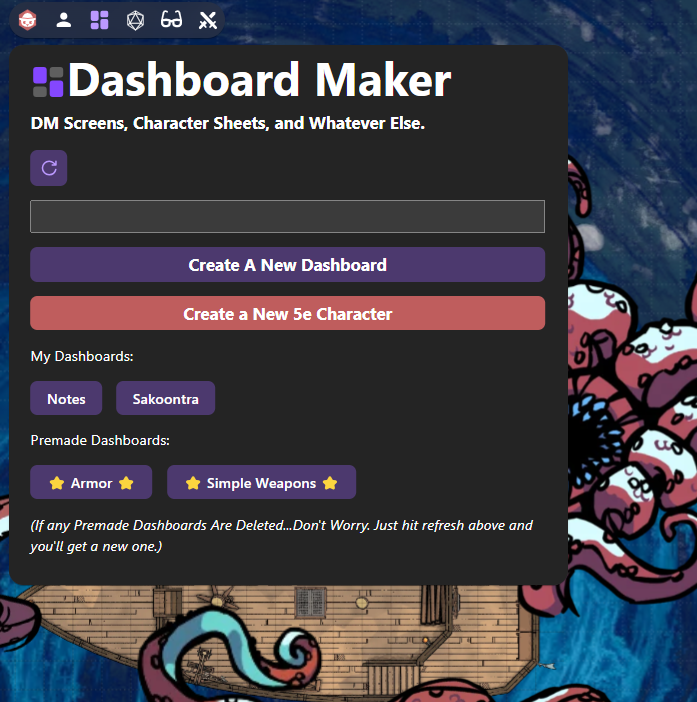
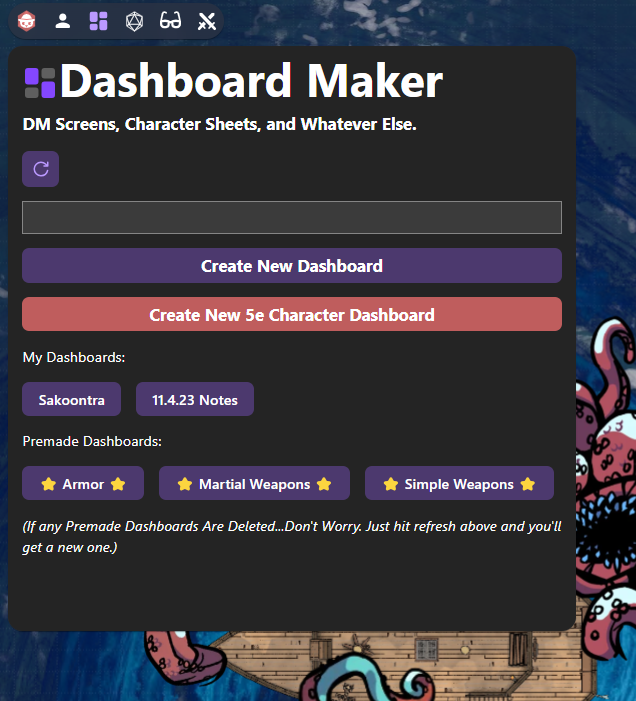
update readme and store doc

diff --git a/src/components/PopOver.tsx b/src/components/PopOver.tsx
@@ -176,14 +176,14 @@ export default function PopOver() {
               onClick={() => createADashboard("default")}
               title="Create a new empty dashboard."
             >
-              <h3>Create A New Dashboard</h3>
+              <h3>Create New Dashboard</h3>
             </button>
             <button
               onClick={() => createADashboard("5eChar")}
               id="fifth-edition-char"
               title="Create a new dashboard using a 5e Character Template."
             >
-              <h3>Create A New 5e Character</h3>
+              <h3>Create New 5e Character Dashboard</h3>
             </button>
           </div>
           <div>

diff --git a/src/index.css b/src/index.css
@@ -7,7 +7,7 @@
 #no-owlbear main {
   align-self: center;
   width: 100%;
-  max-width: 621px;
+  max-width: 631px;
   height: 650px;
 }
 

diff --git a/README.md b/README.md
@@ -1,6 +1,10 @@
 # Dashboard Maker
 
-An Owlbear Rodeo extension for making DM Screens, Character Sheets, and Whatever Else.
+**An Owlbear Rodeo extension for keeping game content you need on hand.**
+
+Whether it's useful notes & reminders, initiative trackers, character sheets, or something else, Dashboard Maker is a place to put it.
+
+The more you put in Dashboard Maker, the less you have to leave Owlbear Rodeo. Why is this good? Because context switching during a game sucks.
 
 Check it out as a standalone app here: https://owlbear-dashboard-maker.vercel.app/
 
@@ -10,20 +14,35 @@ _(But really, you should be using this in [Owlbear Rodeo](https://www.owlbear.ro
 
 ## Features
 
+**Create Dashboards!**
+
 ### Blank Dashboards
 
-![Dashboard Maker](./docs/DashboardMaker2.png)
+![Blank Dashboards](./docs/DashboardMaker2.png)
 
-Click **Create A New Dashboard** to create a new empty dashboard space. Fill it with useful notes, reminders, and any other useful content you want on-hand. Next time you need to recall a story beat or a rules detail, put it in Dashboard Maker so that you never have to change contexts by leaving Owlbear.
+Click **Create A New Dashboard** on the home screen to create a new empty dashboard space.
 
-### 5e Character Template
+---
 
-![Dashboard Maker](./docs/DashboardMaker3.png)
+### 5e Character Template Dashboards
 
-Click **Create A New 5e Character** to create a new dashboard space, using a 5e Character Template.
+![5e Character Template Dashboards](./docs/DashboardMaker3.png)
+
+Click **Create A New 5e Character** on the home page to create a new dashboard space using a 5e Character Template.
 
 ### Premades
+
+![Dashboard "Premades"](./docs/DashboardMaker4.png)
+
 
 Dashboard Maker comes with a couple of "Premades". These are dashboards that are already there, with some useful DM Screen info particular to D&D 5th Edition.
 
 More "Premades" to come.
+
+## Additional Features
+- You can delete dashboards as needed
+- You can clone/duplicate any dashboard as needed
+- You can lock/unlock the state of a dashboard, affecting the editable boxes within it.
+
+
+_Have fun!_

diff --git a/docs/store.md b/docs/store.md
@@ -1,0 +1,61 @@
+---
+title: Dashboard Maker
+description: An extension for keeping game content you need on hand.
+author: Robert Tate
+image: 
+icon: https://owlbear-dashboard-maker.vercel.app/icon.svg
+tags:
+  - tool
+  - other
+manifest: https://owlbear-dashboard-maker.vercel.app/manifest.json
+learn-more: https://github.com/RobertTate/dashboard-maker
+---
+
+# Dashboard Maker
+
+**An Owlbear Rodeo extension for keeping game content you need on hand.**
+
+Whether it's useful notes & reminders, initiative trackers, character sheets, or something else, Dashboard Maker is a place to put it.
+
+The more you put in Dashboard Maker, the less you have to leave Owlbear Rodeo. Why is this good? Because context switching during a game sucks.
+
+Check it out as a standalone app here: https://owlbear-dashboard-maker.vercel.app/
+
+_(But really, you should be using this in [Owlbear Rodeo](https://www.owlbear.rodeo/))_
+
+![Dashboard Maker](./DashboardMaker1.png)
+
+## Features
+
+**Create Dashboards!**
+
+### Blank Dashboards
+
+![Blank Dashboards](./DashboardMaker2.png)
+
+Click **Create A New Dashboard** on the home screen to create a new empty dashboard space.
+
+---
+
+### 5e Character Template Dashboards
+
+![5e Character Template Dashboards](./DashboardMaker3.png)
+
+Click **Create A New 5e Character** on the home page to create a new dashboard space using a 5e Character Template.
+
+### Premades
+
+![Dashboard "Premades"](./DashboardMaker4.png)
+
+
+Dashboard Maker comes with a couple of "Premades". These are dashboards that are already there, with some useful DM Screen info particular to D&D 5th Edition.
+
+More "Premades" to come.
+
+## Additional Features
+- You can delete dashboards as needed
+- You can clone/duplicate any dashboard as needed
+- You can lock/unlock the state of a dashboard, affecting the editable boxes within it.
+
+
+_Have fun!_
